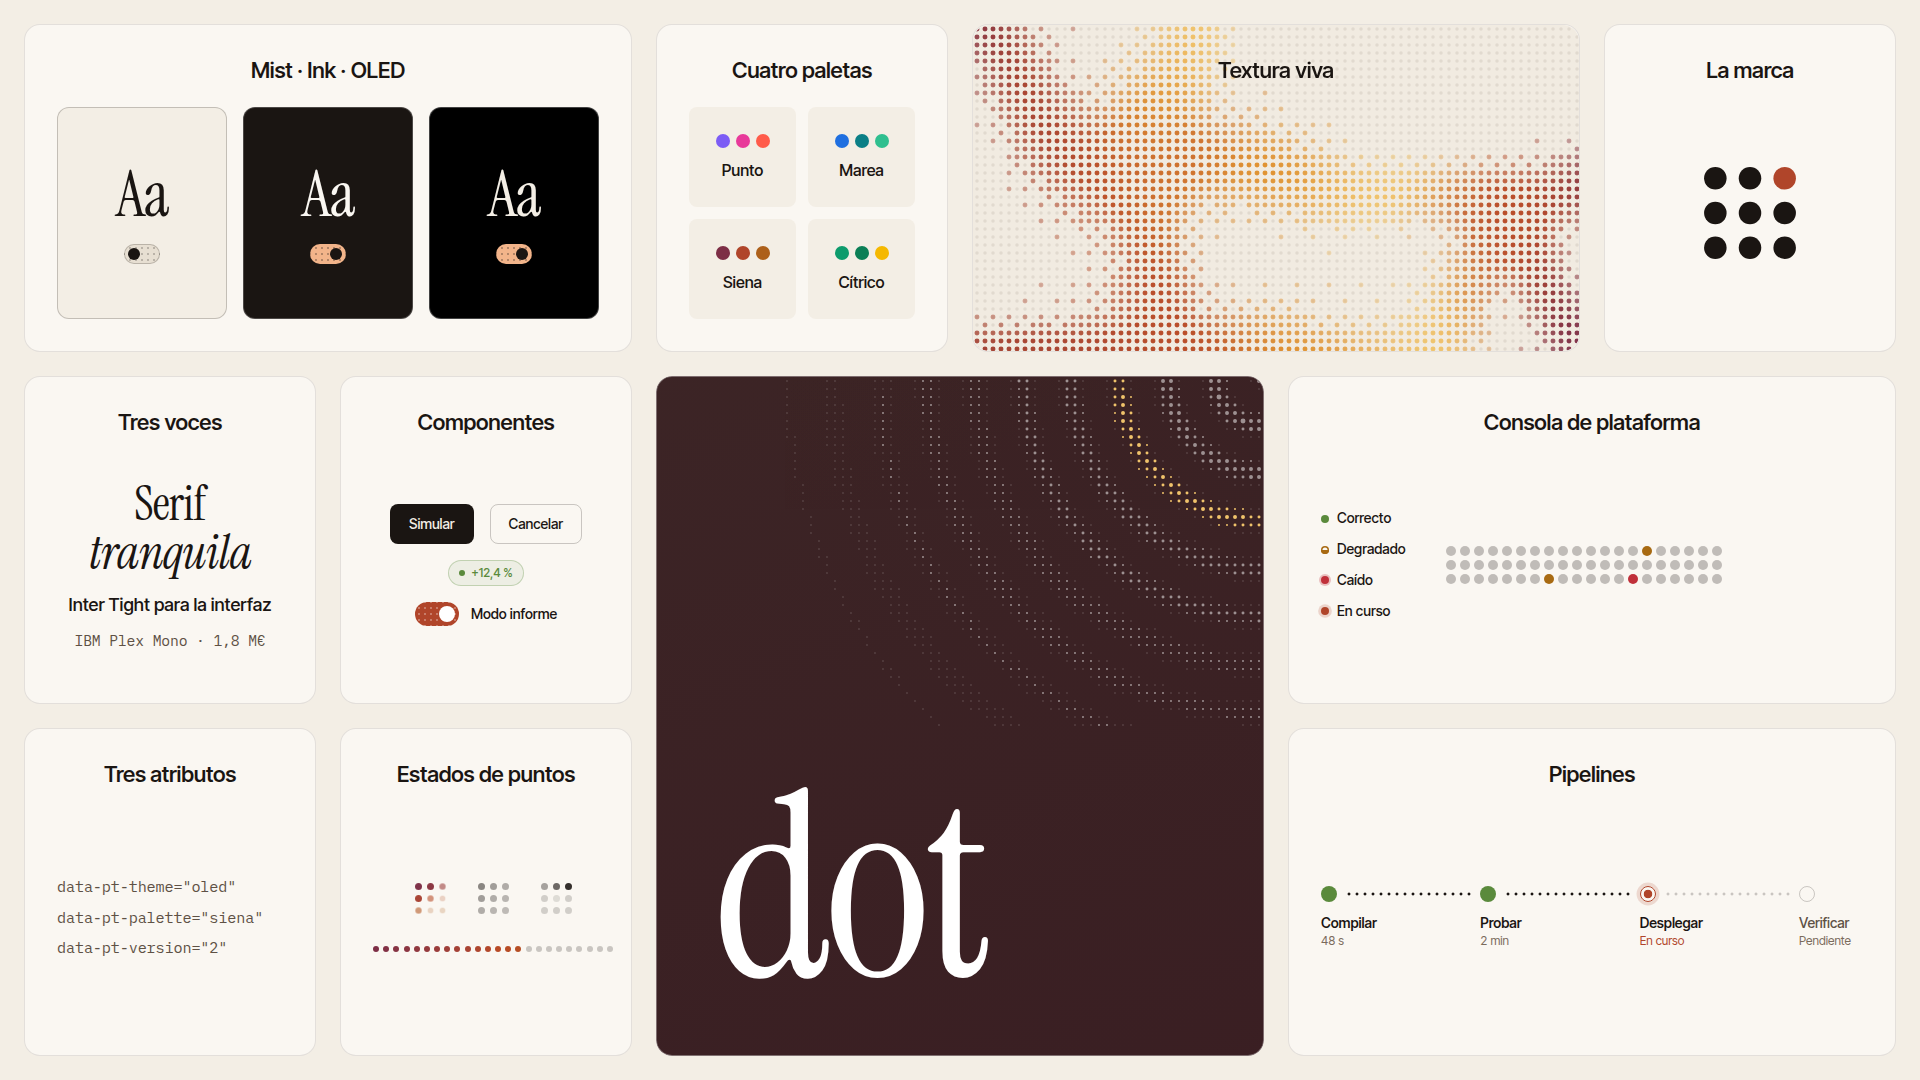
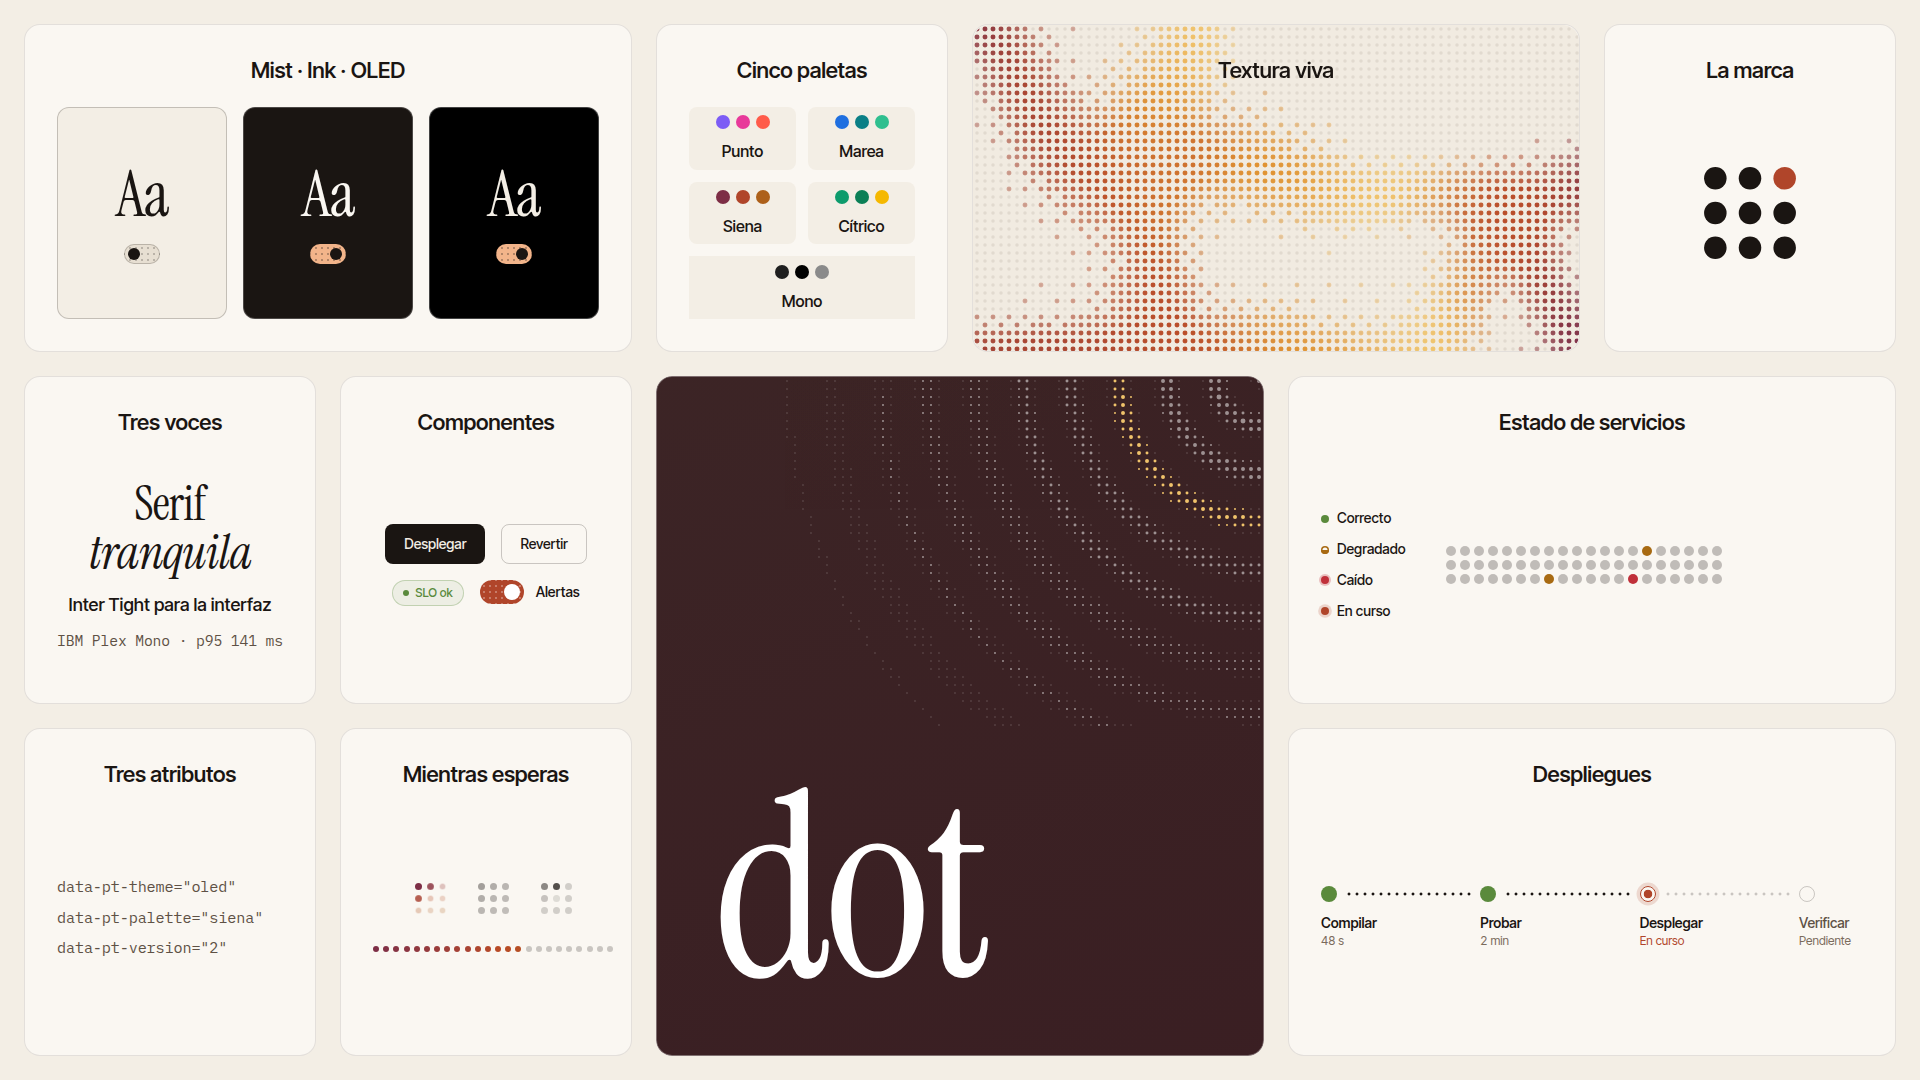
docs: tono más relajado y orientado a DevOps
README, Introducción y Versión 2 explican qué es, cuándo usarlo y un ejemplo.
Títulos del mosaico Resumen ajustados y capturas regeneradas.

diff --git a/src/stories/Overview.stories.tsx b/src/stories/Overview.stories.tsx
@@ -107,18 +107,18 @@ function Board({ palette, night }: { palette: ReturnType<typeof heroPalette>; ni
             Serif <em>tranquila</em>
           </span>
           <span className="ov-type__sans">Inter Tight para la interfaz</span>
-          <span className="pt-mono ov-type__mono">IBM Plex Mono · 1,8 M€</span>
+          <span className="pt-mono ov-type__mono">IBM Plex Mono · p95 141 ms</span>
         </div>
       </Tile>
 
       <Tile area="comps" title="Componentes">
         <div className="ov-comps">
-          <Button>Simular</Button>
-          <Button variant="ghost">Cancelar</Button>
+          <Button>Desplegar</Button>
+          <Button variant="ghost">Revertir</Button>
           <Badge tone="positive" dot>
-            +12,4 %
+            SLO ok
           </Badge>
-          <Switch label="Modo informe" defaultChecked />
+          <Switch label="Alertas" defaultChecked />
         </div>
       </Tile>
 
@@ -146,7 +146,7 @@ function Board({ palette, night }: { palette: ReturnType<typeof heroPalette>; ni
         </GlassCard>
       </Tile>
 
-      <Tile area="status" title="Consola de plataforma">
+      <Tile area="status" title="Estado de servicios">
         <div className="ov-status">
           <div className="ov-status__list">
             <Status tone="ok">Correcto</Status>
@@ -168,18 +168,18 @@ data-pt-version="2"`}
         </pre>
       </Tile>
 
-      <Tile area="loaders" title="Estados de puntos">
+      <Tile area="loaders" title="Mientras esperas">
         <div className="ov-loaders">
           <div className="ov-loaders__row">
             <DotLoader variant="wave" tone="accent" size="lg" label="Cargando" />
             <DotLoader variant="pulse" size="lg" label="Cargando" />
             <DotLoader variant="orbit" size="lg" label="Cargando" />
           </div>
-          <DotProgress value={62} tone="accent" label="Progreso" />
+          <DotProgress value={62} tone="accent" label="Réplicas listas" />
         </div>
       </Tile>
 
-      <Tile area="pipe" title="Pipelines">
+      <Tile area="pipe" title="Despliegues">
         <div className="ov-pipe">
           <Pipeline
             label="Despliegue"

diff --git a/README.md b/README.md
@@ -2,32 +2,76 @@
 
 <picture>
   <source media="(prefers-color-scheme: dark)" srcset="docs/overview-dark.png">
-  <img alt="Resumen de Dot: temas Mist, Ink y OLED, cuatro paletas, la textura DotField, la marca, tipografía, componentes, consola de plataforma, estados de puntos y pipelines alrededor de una lámina de tinta con el nombre." src="docs/overview-light.png">
+  <img alt="Resumen de Dot: temas Mist, Ink y OLED, cinco paletas, la textura DotField, la marca, tipografía, componentes, estado de servicios, cargadores de puntos y un despliegue alrededor de una lámina de tinta con el nombre." src="docs/overview-light.png">
 </picture>
 
-Propuesta de lenguaje de diseño inspirada en el póster de _Otherwise_: superficies de puntos
-por las que pasan cintas de color, paneles de vidrio esmerilado encima y una serif tranquila
-para los titulares. Todo se documenta y se prueba en un Storybook.
+Dot es un lenguaje de diseño hecho de puntos: tokens CSS, unos treinta componentes React y un
+Storybook para verlos. No te va a cambiar la vida. Pero si tienes que montar un panel de estado,
+el informe semanal de plataforma o un post-mortem para mañana, trae casi todo lo que vas a
+necesitar y queda bien sin pelearte con el CSS.
 
-- **Tokens** en CSS (`--pt-*`): color (mist, ink y acentos), gradientes, tipografía, espacio,
-  radios y movimiento, con tema claro (_Mist_) y oscuro (_Ink_).
-- **Familia de puntos**: `DotField` (la textura animada, en canvas), `DotPattern` (patrones
-  compuestos y quietos, en SVG), `DotLoader`, `DotProgress` y `DotBars`.
-- **Dot 2** (`data-pt-version="2"`): la edición formal. Siena de serie, un solo acento
-  sólido, papel con filete en vez de vidrio, radios en la rejilla y patrones anclados en
-  lugar de cintas. Ver [Dot 2](#dot-2).
-- **Paletas**: `punto` (la original), `marea`, `siena`, `citrico` y `mono`, intercambiables
-  con `data-pt-palette` en el mismo elemento que `data-pt-theme`. `mono` es la brutalista:
-  blanco y negro, esquinas rectas, trazo de 2 px y sombra dura.
-- **Componentes**: `Button`, `Badge`, `GlassCard`, `TextField`, `Segmented`, `Sparkle`,
-  `Petals`, `DotMark`.
-- **Transversales**: `Stack`, `SectionHeader`, `Stat`, `Callout`, `Switch`, `Avatar` /
-  `AvatarGroup` y `DotDivider`.
-- **Páginas**: el póster original reconstruido con el sistema, una pantalla de producto
-  interactiva (pulsa «Simular») y un panel de equipo (`Workspace`).
+## Lo que viene en la caja
 
-La propuesta completa (principios, paletas y cuándo usar cada una) está en la página
-**Dot › Introducción** del Storybook.
+Para operaciones (grupo **DevOps** del Storybook; todos juntos en **Pages › Dot 2 › Operaciones**):
+
+| Componente | Para qué |
+| ---------- | -------- |
+| `Status` | estado como punto + palabra (`ok` · `warn` · `error` · `running` · `idle`); la forma del punto acompaña al color |
+| `DataTable` | la tabla de servicios: orden por columna, cifras en mono, densidad y fila seleccionada |
+| `Diagram` | el camino de una petición: nodos en rejilla (`service` · `store` · `queue` · `external`) y conectores de puntos |
+| `Pipeline` | compilar → probar → desplegar, en horizontal o en vertical |
+| `KeyValue` | commit, rama, imagen, región: metadatos con guía de puntos o en columnas |
+| `CodeBlock` | el YAML del rollout, con números de línea, líneas marcadas y copiar |
+| `LogView` | registro con hora, nivel y origen (`role="log"`) |
+| `DotUptime` | disponibilidad por día como tira de puntos; solo los días malos llevan color |
+| `Stat` | el KPI de siempre (p95, error budget, MTTR) con su gráfico de puntos |
+| `DotProgress` · `DotBars` · `DotLoader` | progreso del rollout, peticiones por hora y «estoy en ello» sin spinners |
+| `Callout` | «mantenimiento el jueves», «notificaciones caído», «datos de ejemplo» |
+
+Usan `--pt-font-mono` (IBM Plex Mono) y un rol propio para avisos, `--pt-warning`.
+
+El resto, para lo que rodea al dato:
+
+- **Tokens** en CSS (`--pt-*`): color, gradientes, tipografía, espacio, radios y movimiento.
+  Tres temas: _Mist_ (claro), _Ink_ (oscuro) y _OLED_ (para la guardia de noche).
+- **Paletas**: `punto` (la original), `marea`, `siena`, `citrico` y `mono`, intercambiables con
+  `data-pt-palette`. `mono` es blanco y negro, esquinas rectas y sombra dura: ideal para un
+  informe que alguien va a imprimir o pegar en un ticket.
+- **Dot 2** (`data-pt-version="2"`): la versión sobria. Papel en vez de vidrio, un solo acento y
+  patrones quietos. Es la que quieres para informes. Ver [Dot 2](#dot-2).
+- **Básicos**: `Button`, `Badge`, `GlassCard`, `TextField`, `Segmented`, `Switch`, `Stack`,
+  `SectionHeader`, `Avatar` / `AvatarGroup`, `DotDivider`, y la marca (`DotMark`, `Petals`,
+  `Sparkle`).
+- **Textura**: `DotField` (puntos animados en canvas) y `DotPattern` (patrones quietos en SVG).
+  Opcionales; tu dashboard no necesita fuegos artificiales.
+
+## Empezar
+
+```html
+<html data-pt-theme="light" data-pt-version="2">
+```
+
+```tsx
+import { DotUptime, Pipeline, Stat, Status } from "desing";
+
+<Status tone="warn">búsqueda degradado</Status>
+<Stat label="Latencia p95" value="182 ms" delta="+12 ms" trend="negative" />
+<DotUptime periods={dias} label="Disponibilidad, 30 días" />
+<Pipeline
+  label="Despliegue #482"
+  stages={[
+    { id: "build", label: "Compilar", status: "ok", meta: "1 min 12 s" },
+    { id: "canary", label: "Canario 10 %", status: "running" },
+    { id: "prod", label: "Producción", status: "idle" },
+  ]}
+/>
+```
+
+Importar el paquete trae los tokens, los tres temas y las fuentes. Para ver ejemplos completos:
+**Pages › Dot 2** tiene un informe semanal (_Portada_), un post-mortem (_Informe_), una consola de
+plataforma (_Operaciones_) y un póster de estado para la pantalla de la oficina (_Lámina_).
+**Pages › Product** es una pantalla de despliegue (pulsa «Desplegar») y **Pages › Workspace**, el
+panel de quien está de guardia.
 
 > Antes se llamaba **Punto**. El nombre cambia; la API no: los tokens, las clases y los
 > atributos siguen con el prefijo `pt-` (`--pt-*`, `.pt-folio`, `data-pt-theme`), y la paleta
@@ -99,26 +143,8 @@ propias. Sin `data-pt-palette`, un ámbito v2 usa Siena. La pieza nueva es `DotP
 | `tone`, `intensity`, `period`, `falloff`, `motion` | tinta, opacidad, separación, caída y respiración |
 
 Es geometría determinista sobre la rejilla, lee los roles del tema (sirve en cualquier
-paleta, en Mist y en Ink) y pinta como mucho diez `<path>` por patrón. La propuesta completa
-está en **Dot › Versión 2**; las páginas, en **Pages › Dot 2**.
-
-## DevOps
-
-Componentes para consolas y paneles de operación (grupo **DevOps** del Storybook; juntos en
-**Pages › Dot 2 › Operaciones**):
-
-| Componente | Para qué |
-| ---------- | -------- |
-| `Status` | estado como punto + palabra (`ok` · `warn` · `error` · `running` · `idle`) |
-| `DataTable` | tabla pautada con orden por columna, cifras en mono, densidad y fila seleccionada |
-| `Diagram` | nodos en una rejilla (`service` · `store` · `queue` · `external`) unidos por conectores de puntos |
-| `Pipeline` | etapas de una ejecución, horizontal o vertical |
-| `KeyValue` | metadatos con guía de puntos, o apilados en columnas |
-| `CodeBlock` | código o configuración, con números, líneas marcadas y copiar |
-| `LogView` | líneas de registro con hora, nivel y origen (`role="log"`) |
-| `DotUptime` | historial por periodos como tira de puntos |
-
-Usan `--pt-font-mono` (IBM Plex Mono) y un rol nuevo, `--pt-warning`.
+paleta, en Mist y en Ink) y pinta como mucho diez `<path>` por patrón. Más detalle en
+**Dot › Versión 2**; las páginas, en **Pages › Dot 2**.
 
 ## Temas y modo noche
 
